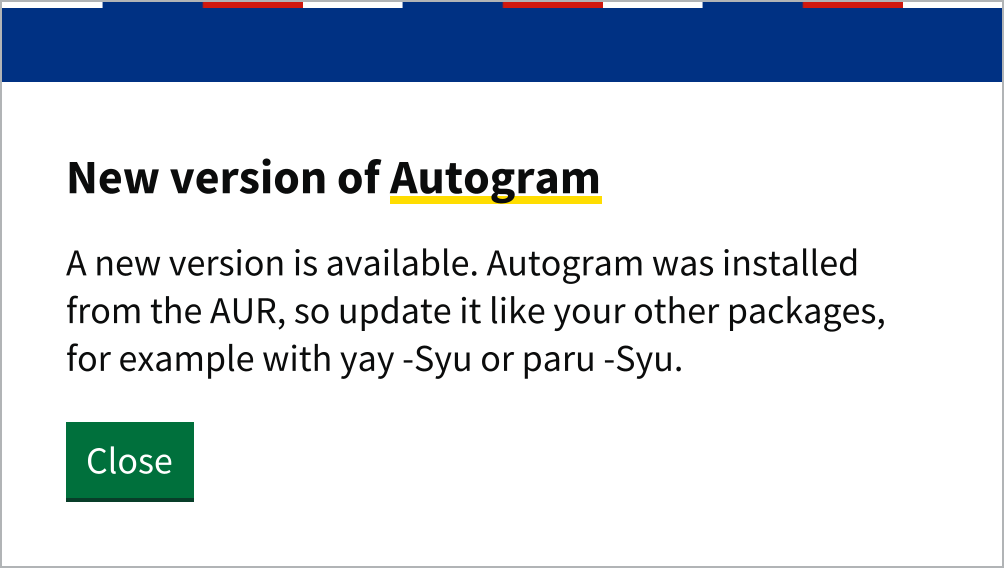
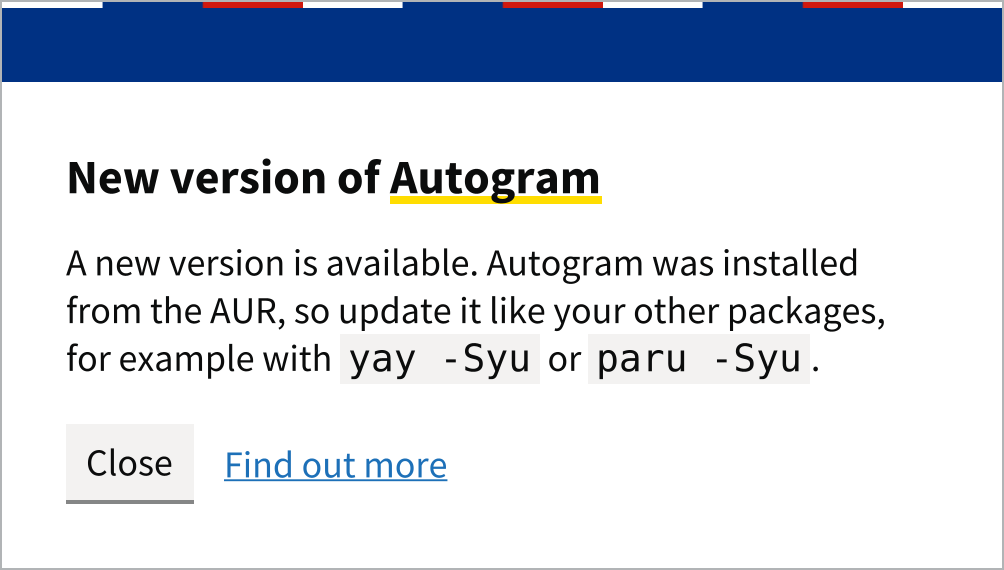
Show the AUR update commands as code, with a grey Close button
- The commands are shown as code, in monospace on a grey background, the
  same as in the ID-SK guides. TextHighlighter can now mark a text as
  code, and the translations take the commands as parameters.
- The user updates in the terminal, so there's no primary button. A grey
  Close button closes the window and the Find out more link next to it
  opens the Arch Linux section of the user guide.

diff --git a/src/main/resources/digital/slovensko/autogram/ui/gui/idsk.css b/src/main/resources/digital/slovensko/autogram/ui/gui/idsk.css
@@ -958,6 +958,14 @@ TextFlow.autogram-body-s {
   -fx-background-insets: 0 0 2 0, 0 0 6 0;
 }
 
+/* Code in text, e.g. a command, as in the ID-SK and GOV.UK guides */
+.autogram-code {
+  -fx-font-family: "Monospaced";
+  -fx-font-size: 1em;
+  -fx-background-color: -autogram-secondary-background-colour;
+  -fx-padding: 1px 4px;
+}
+
 .autogram-radios {
   -fx-spacing: 10px;
 }

diff --git a/src/test/java/digital/slovensko/autogram/ui/gui/UpdateDialogTest.java b/src/test/java/digital/slovensko/autogram/ui/gui/UpdateDialogTest.java
@@ -1,10 +1,14 @@
 package digital.slovensko.autogram.ui.gui;
 
 import digital.slovensko.autogram.ui.SupportedLanguage;
+import javafx.application.HostServices;
 import javafx.application.Platform;
 import javafx.fxml.FXMLLoader;
 import javafx.scene.Parent;
 import javafx.scene.Scene;
+import javafx.scene.control.Labeled;
+import javafx.scene.text.Text;
+import javafx.scene.text.TextFlow;
 import javafx.stage.Stage;
 import org.junit.jupiter.api.AfterEach;
 import org.junit.jupiter.api.BeforeAll;
@@ -14,13 +18,17 @@ import org.junit.jupiter.api.condition.OS;
 import org.junit.jupiter.params.ParameterizedTest;
 import org.junit.jupiter.params.provider.EnumSource;
 
+import java.util.List;
 import java.util.ResourceBundle;
 import java.util.concurrent.FutureTask;
 import java.util.concurrent.TimeUnit;
+import java.util.stream.Collectors;
 
 import static org.junit.jupiter.api.Assertions.assertEquals;
 import static org.junit.jupiter.api.Assertions.assertFalse;
 import static org.junit.jupiter.api.Assertions.assertTrue;
+import static org.mockito.Mockito.mock;
+import static org.mockito.Mockito.verify;
 
 /**
  * Desktop-only tests, intentionally opt-in for builds without a display.
@@ -53,20 +61,40 @@ class UpdateDialogTest {
     void aurInstallationIsToldToUpdateThroughThePackageManager(SupportedLanguage language) throws Exception {
         System.setProperty("autogram.updateChannel", "aur");
 
+        var hostServices = mock(HostServices.class);
+
         onFxThread(() -> {
-            var dialog = openDialog(language);
+            var dialog = openDialog(language, hostServices);
             var controller = dialog.controller();
 
-            assertEquals(dialog.resources().getString("update.newVersion.aur.text"), controller.text.getText());
-            assertTrue(controller.mainButton.isVisible());
-            assertEquals(dialog.resources().getString("general.close.btn"), controller.mainButton.getText());
-            assertFalse(controller.cancelButton.isVisible());
-            assertFalse(controller.cancelButton.isManaged());
-            assertFalse(controller.storeButton.isVisible());
-            assertFalse(controller.moreInfo.isVisible());
+            assertEquals(HasI18n.translate(dialog.resources(), "update.newVersion.aur.text", "yay -Syu", "paru -Syu"),
+                    textOf(controller.textFlow));
+            // shown as code, the same as in the guides
+            var commands = controller.textFlow.getChildren().stream()
+                    .filter(node -> node.getStyleClass().contains("autogram-code"))
+                    .map(node -> ((Labeled) node).getText())
+                    .toList();
+            assertEquals(List.of("yay -Syu", "paru -Syu"), commands);
 
-            controller.mainButton.fire();
-            assertFalse(dialog.stage().isShowing(), "the only button closes the window");
+            // the update happens in the terminal, so there's no primary button, only a grey Close and the guide next to it
+            for (var hidden : List.of(controller.mainButton, controller.storeButton, controller.cancelButton)) {
+                assertFalse(hidden.isVisible(), hidden.getId());
+                assertFalse(hidden.isManaged(), hidden.getId());
+            }
+            assertFalse(controller.moreInfo.isVisible());
+            assertTrue(controller.closeButton.isVisible());
+            assertTrue(controller.closeButton.getStyleClass().contains("autogram-button--secondary"));
+            assertEquals(dialog.resources().getString("general.close.btn"), controller.closeButton.getText());
+            assertTrue(controller.guideButton.isVisible());
+            assertEquals(dialog.resources().getString("update.moreInfo.link"), controller.guideButton.getText());
+            var actions = controller.closeButton.getParent().getChildrenUnmodifiable();
+            assertEquals(actions.indexOf(controller.closeButton) + 1, actions.indexOf(controller.guideButton));
+
+            controller.guideButton.fire();
+            verify(hostServices).showDocument(dialog.resources().getString("docs.url") + "installation/#arch-linux");
+
+            controller.closeButton.fire();
+            assertFalse(dialog.stage().isShowing());
         });
     }
 
@@ -75,7 +103,7 @@ class UpdateDialogTest {
     @EnabledOnOs({OS.LINUX, OS.MAC})
     void otherInstallationsAreOfferedTheDownload(SupportedLanguage language) throws Exception {
         onFxThread(() -> {
-            var dialog = openDialog(language);
+            var dialog = openDialog(language, null);
             var controller = dialog.controller();
 
             assertEquals(dialog.resources().getString("update.newVersion.text"), controller.text.getText());
@@ -85,9 +113,9 @@ class UpdateDialogTest {
         });
     }
 
-    private static Dialog openDialog(SupportedLanguage language) throws Exception {
+    private static Dialog openDialog(SupportedLanguage language, HostServices hostServices) throws Exception {
         var resources = language.loadResources();
-        var controller = new UpdateController(null);
+        var controller = new UpdateController(hostServices);
         var loader = new FXMLLoader(UpdateController.class.getResource("update-dialog.fxml"), resources);
         loader.setController(controller);
         Parent root = loader.load();
@@ -96,6 +124,12 @@ class UpdateDialogTest {
         stage.setScene(new Scene(root));
         stage.show();
         return new Dialog(stage, controller, resources);
+    }
+
+    private static String textOf(TextFlow flow) {
+        return flow.getChildren().stream()
+                .map(node -> node instanceof Text text ? text.getText() : ((Labeled) node).getText())
+                .collect(Collectors.joining());
     }
 
     private static void onFxThread(FxAction action) throws Exception {

diff --git a/src/main/java/digital/slovensko/autogram/ui/gui/UpdateController.java b/src/main/java/digital/slovensko/autogram/ui/gui/UpdateController.java
@@ -10,14 +10,22 @@ import javafx.scene.control.Button;
 import javafx.scene.text.Text;
 import javafx.scene.text.TextFlow;
 
+import java.util.List;
+
+import static digital.slovensko.autogram.ui.gui.TextHighlighter.code;
 import static digital.slovensko.autogram.ui.gui.TextHighlighter.highlight;
 
 public class UpdateController extends BaseController implements SuppressedFocusController {
+    // AUR helpers that update the AUR packages together with the others
+    private static final List<String> AUR_UPDATE_COMMANDS = List.of("yay -Syu", "paru -Syu");
+
     private final HostServices hostServices;
     @FXML
     Node mainBox;
     @FXML
     TextFlow title;
+    @FXML
+    TextFlow textFlow;
     @FXML
     Text text;
     @FXML
@@ -26,6 +34,10 @@ public class UpdateController extends BaseController implements SuppressedFocusC
     Button storeButton;
     @FXML
     Button mainButton;
+    @FXML
+    Button closeButton;
+    @FXML
+    Button guideButton;
     @FXML
     Button cancelButton;
 
@@ -38,12 +50,18 @@ public class UpdateController extends BaseController implements SuppressedFocusC
         highlight("Autogram").in(title);
 
         if (Updater.isInstalledFromAur()) {
-            // Nothing to download, the package manager brings the new version, so the window only says how
-            text.setText(i18n("update.newVersion.aur.text"));
-            mainButton.setText(i18n("general.close.btn"));
-            mainButton.setOnAction(this::onCancelButtonPressed);
-            cancelButton.setManaged(false);
-            cancelButton.setVisible(false);
+            // The package manager brings the new version and the user updates in the terminal, so there's no primary
+            // action, only closing the window and the way to the guide
+            text.setText(i18n("update.newVersion.aur.text", AUR_UPDATE_COMMANDS.toArray()));
+            AUR_UPDATE_COMMANDS.forEach(command -> code(command).in(textFlow));
+            for (var hidden : List.of(mainButton, cancelButton)) {
+                hidden.setManaged(false);
+                hidden.setVisible(false);
+            }
+            for (var shown : List.of(closeButton, guideButton)) {
+                shown.setManaged(true);
+                shown.setVisible(true);
+            }
         } else if (OperatingSystem.current() == OperatingSystem.WINDOWS) {
             text.setText(i18n("update.newVersion.store.text"));
             moreInfo.setManaged(true);
@@ -61,6 +79,10 @@ public class UpdateController extends BaseController implements SuppressedFocusC
 
     public void downloadAction(ActionEvent ignored) {
         hostServices.showDocument(Updater.LATEST_RELEASE_URL);
+    }
+
+    public void guideAction(ActionEvent ignored) {
+        GUIUtils.openDocs(hostServices, resources, i18n("update.aur.help"));
     }
 
     public void onCancelButtonPressed(ActionEvent ignored) {

diff --git a/src/main/java/digital/slovensko/autogram/ui/gui/TextHighlighter.java b/src/main/java/digital/slovensko/autogram/ui/gui/TextHighlighter.java
@@ -13,13 +13,22 @@ import static java.util.Arrays.stream;
 public class TextHighlighter {
 
     private final String textToHighlight;
+    private final String styleClass;
 
-    private TextHighlighter(String textToHighlight) {
+    private TextHighlighter(String textToHighlight, String styleClass) {
         this.textToHighlight = textToHighlight;
+        this.styleClass = styleClass;
     }
 
     public static TextHighlighter highlight(String textToHighlight) {
-        return new TextHighlighter(textToHighlight);
+        return new TextHighlighter(textToHighlight, "autogram-claim");
+    }
+
+    /**
+     * Shows the text as code, e.g. a command, in monospace on a grey background
+     */
+    public static TextHighlighter code(String code) {
+        return new TextHighlighter(code, "autogram-code");
     }
 
     /**
@@ -51,7 +60,7 @@ public class TextHighlighter {
                 .map(textFragment -> {
                     if (textFragment.equals(textToHighlight)) {
                         var highlightedNode = new Label(textToHighlight);
-                        highlightedNode.getStyleClass().add("autogram-claim");
+                        highlightedNode.getStyleClass().add(styleClass);
                         highlightedNode.getStyleClass().addAll(originalNode.getStyleClass());
                         highlightedNode.setStyle(originalNode.getStyle());
                         return highlightedNode;

diff --git a/docs/docs/sk/installation.md b/docs/docs/sk/installation.md
@@ -124,7 +124,7 @@ Na Windows ponúkne okno od verzie 2.8 namiesto sťahovania tlačidlo **Inštalo
 
 ![Dostupná aktualizácia s inštaláciou z Microsoft Store](/assets/images/screenshots/sk/update-store.png)
 
-Na Arch Linuxe s Autogramom z AUR okno namiesto sťahovania pripomenie, že Autogram aktualizujete rovnako ako ostatné balíky, napríklad príkazom `yay -Syu` alebo `paru -Syu`. Tlačidlo **Zavrieť** okno zavrie. Pozrite si [Arch Linux](#arch-linux).
+Na Arch Linuxe s Autogramom z AUR okno namiesto sťahovania pripomenie, že Autogram aktualizujete rovnako ako ostatné balíky, napríklad príkazom `yay -Syu` alebo `paru -Syu`. Tlačidlo **Zavrieť** okno zavrie a odkaz **Zistiť viac informácií** vedľa neho otvorí časť [Arch Linux](#arch-linux) tejto príručky.
 
 ![Dostupná aktualizácia pri inštalácii z AUR](/assets/images/screenshots/sk/update-aur.png)
 

diff --git a/docs/docs/en/installation.md b/docs/docs/en/installation.md
@@ -124,7 +124,7 @@ On Windows, from version 2.8 the window offers **Install from Microsoft Store** 
 
 ![Update available with installation from Microsoft Store](/assets/images/screenshots/en/update-store.png)
 
-On Arch Linux with Autogram from the AUR, the window reminds you instead of the download to update Autogram like your other packages, for example with `yay -Syu` or `paru -Syu`. **Close** closes the window. See [Arch Linux](#arch-linux).
+On Arch Linux with Autogram from the AUR, the window reminds you instead of the download to update Autogram like your other packages, for example with `yay -Syu` or `paru -Syu`. **Close** closes the window and the **Find out more** link next to it opens the [Arch Linux](#arch-linux) section of this guide.
 
 ![Update available when installed from the AUR](/assets/images/screenshots/en/update-aur.png)
 
